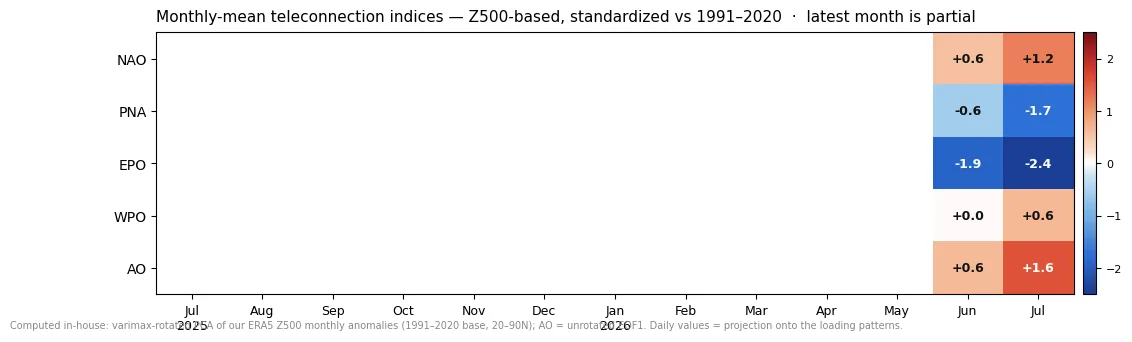
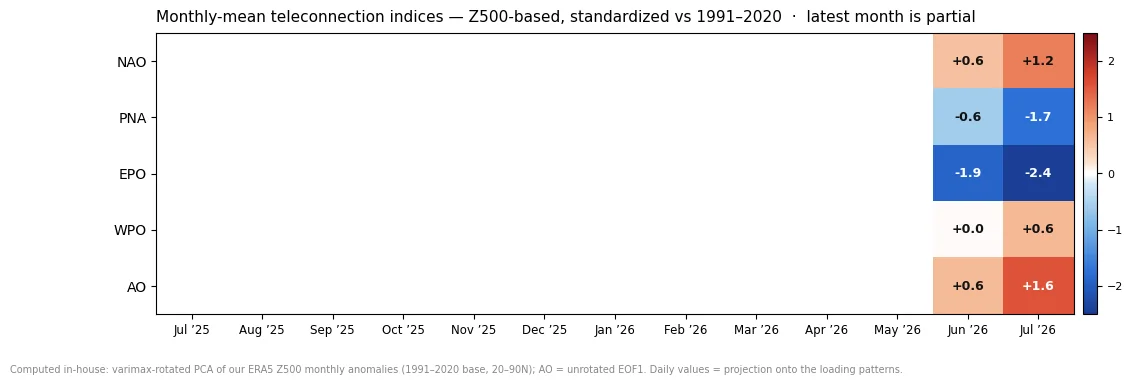
Climate: fix teleconnection table x-axis/footnote overlap
Single-line "Jul '25" month ticks with bottom margin so the year
labels no longer collide with the footnote.

diff --git a/scripts/climate/climate_monitor.py b/scripts/climate/climate_monitor.py
@@ -330,12 +330,12 @@ def render_tele_table(tele: pd.DataFrame, n_months: int = 13):
     monthly = tele.resample("MS").mean().tail(n_months)
     names = ["nao", "pna", "epo", "wpo", "ao"]
     M = monthly[names].T.values
-    fig, ax = plt.subplots(figsize=(12.2, 3.4), dpi=100)
+    fig, ax = plt.subplots(figsize=(12.2, 3.8), dpi=100)
     im = ax.imshow(M, cmap=_BWR, vmin=-2.5, vmax=2.5, aspect="auto")
     ax.set_yticks(range(len(names)), [n.upper() for n in names], fontsize=10)
     ax.set_xticks(range(len(monthly)),
-                  [f"{m:%b\n%Y}" if m.month == 1 or i == 0 else f"{m:%b}"
-                   for i, m in enumerate(monthly.index)], fontsize=9)
+                  [m.strftime("%b ’%y") for m in monthly.index],
+                  fontsize=8.5, rotation=0)
     for i in range(M.shape[0]):
         for j in range(M.shape[1]):
             v = M[i, j]
@@ -345,7 +345,8 @@ def render_tele_table(tele: pd.DataFrame, n_months: int = 13):
                         color="white" if abs(v) > 1.4 else "#111")
     ax.set_title("Monthly-mean teleconnection indices — Z500-based, standardized vs 1991–2020"
                  f"  ·  latest month is partial", fontsize=11, loc="left", pad=8)
-    fig.text(0.005, 0.01,
+    fig.subplots_adjust(bottom=0.16, top=0.9)
+    fig.text(0.005, 0.005,
              "Computed in-house: varimax-rotated PCA of our ERA5 Z500 monthly anomalies (1991–2020 "
              "base, 20–90N); AO = unrotated EOF1. Daily values = projection onto the loading patterns.",
              fontsize=7, color="#888")
